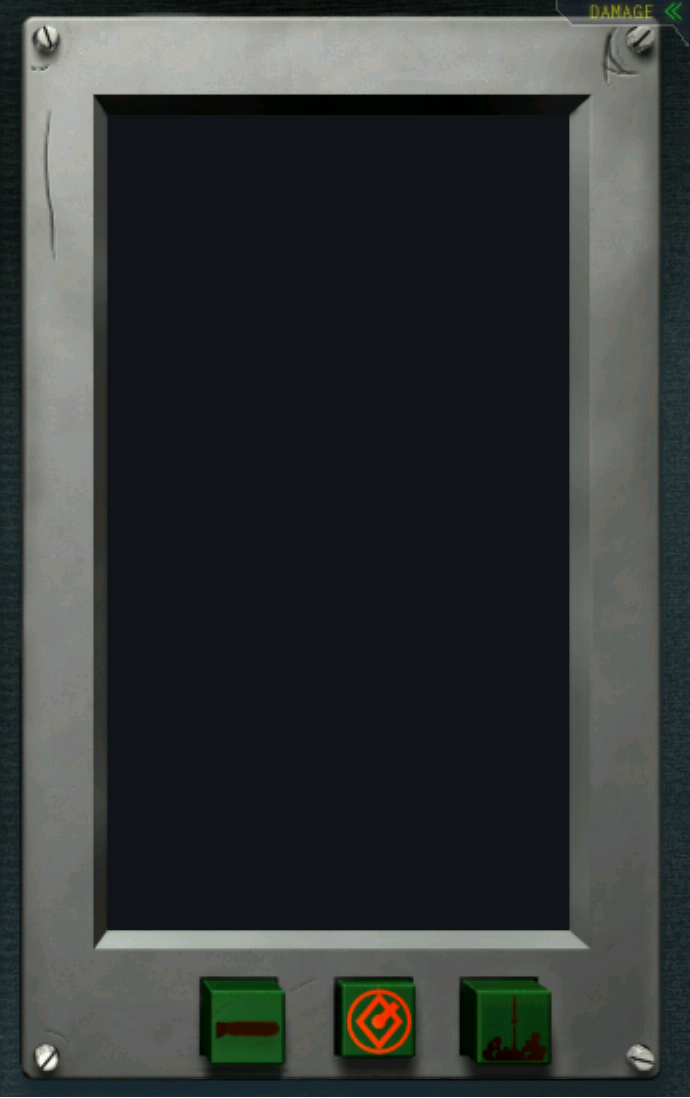
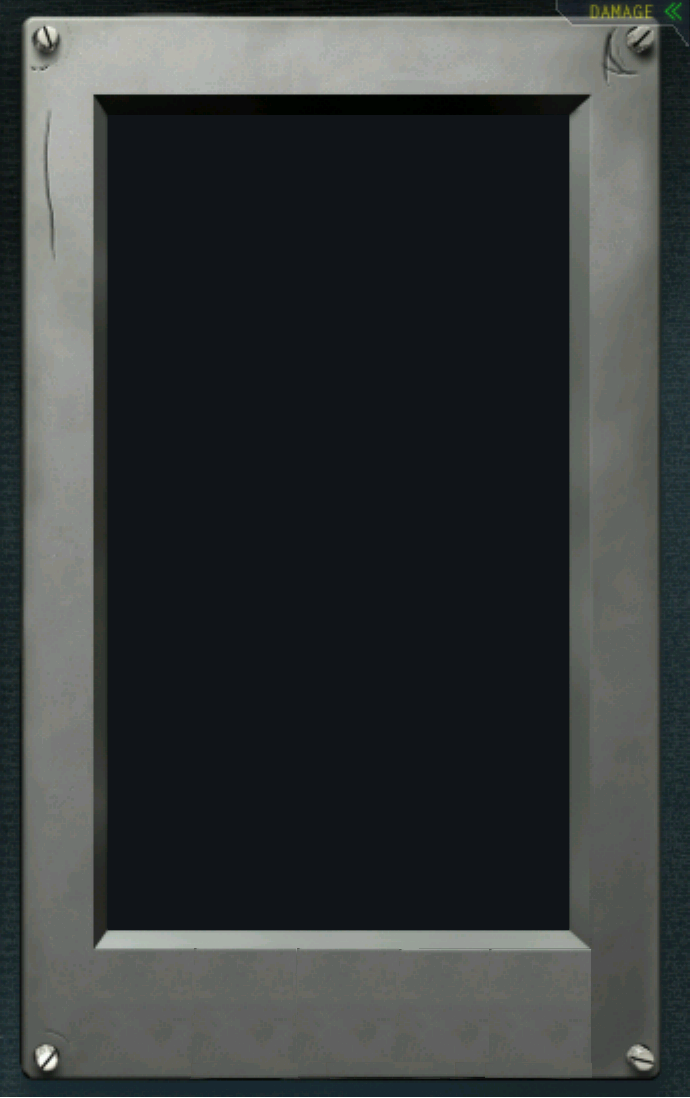
images modified and start/stop button added

Changed region(s): [[0.6391, 0.867, 0.8217, 0.9909], [0.2739, 0.867, 0.4261, 0.9909], [0.4565, 0.867, 0.6087, 0.9909]]

diff --git a/SimulationInterface.py b/SimulationInterface.py
@@ -33,9 +33,17 @@ class InterfaceClass(object):
         self.counterMeasureSystemPicture = pygame.image.load('./img/counterMeasure.png').convert_alpha()
         self.cityButtonPicture = pygame.image.load('./img/city_button.png').convert_alpha()
         self.counterMeasureSystemButtonPicture = pygame.image.load('./img/counterMeasureButton.png').convert_alpha()
+        self.startButtonPicture = pygame.image.load('./img/startButton.png').convert_alpha()
+        self.stopButtonPicture = pygame.image.load('./img/stopButton.png').convert_alpha()
+        self.backgroundPictureButtonRed = pygame.image.load('./img/button_upper.png').convert_alpha()
+        self.backgroundPictureButtonGreen = pygame.image.load('./img/button_upper_start.png').convert_alpha()
         self.cursor_img_rect = 0
         self.city_clicked = False
         self.counterMeasureSystem_clicked = False
+        self.startButton_clicked = False
+        self.stopButton_clicked = False
+        self.stayInMenu = True
+        self.keepRunning = True
 
     def loadPictures(self):
         self.cityPicture = pygame.transform.scale(self.cityPicture, (self.cityPictureSize, self.cityPictureSize))
@@ -43,7 +51,7 @@ class InterfaceClass(object):
                                                                    self.windowsHeight))
         self.counterMeasureSystemPicture = pygame.transform.scale(self.counterMeasureSystemPicture,
                                                                   (self.counterMeasureSystemPictureSize,
-                                                            self.counterMeasureSystemPictureSize))
+                                                                   self.counterMeasureSystemPictureSize))
 
     def convert_degrees(self, R, theta):
         y = math.cos(math.pi * theta / 180) * R
@@ -56,8 +64,9 @@ class InterfaceClass(object):
         self.win.blit(screenText, (positionX, positionY))
 
     def drawSimulationWindow(self, contActiveMissiles, contMissilesDestroyed, contActiveCities, contMissileImpact,
-                   CitiesDestroyed, enemies, strategicLocations, counterMeasuresSystems, counterMeasuresMissiles, angle
-                   , enemiesDestroyedPositions):
+                             CitiesDestroyed, enemies, strategicLocations, counterMeasuresSystems,
+                             counterMeasuresMissiles, angle
+                             , enemiesDestroyedPositions):
         # fondo de la pantalla
         fontText = pygame.font.Font('./fonts/digital-7.ttf', 25)
         fontNumbers = pygame.font.Font('./fonts/digital-7.ttf', 20)
@@ -73,6 +82,14 @@ class InterfaceClass(object):
         self.drawCounterMeasureMissiles(counterMeasuresMissiles)
         self.drawXWhenEnemyMissileIntercepted(enemiesDestroyedPositions)
 
+        stopButton = Button(self.textWidthStart * 1.1, self.windowsHeight * 0.89, self.stopButtonPicture,
+                             self.backgroundPictureButtonGreen, self.win, 0.15)
+
+        if stopButton.draw_button():
+            self.stopButton_clicked = not self.stopButton_clicked
+            if self.stopButton_clicked:
+                self.keepRunning = False
+
         self.text("Active missiles: " + str(contActiveMissiles), self.textWidthStart, self.windowsHeight * 0.2,
                   fontText)
         self.text("Missile Impact: " + str(contMissileImpact), self.textWidthStart, self.windowsHeight * 0.3, fontText)
@@ -82,12 +99,14 @@ class InterfaceClass(object):
         self.text("Cities destroyed: " + str(CitiesDestroyed), self.textWidthStart, self.windowsHeight * 0.7, fontText)
 
         pygame.display.update()
+        return  self.keepRunning
 
     def drawEnemyMissile(self, enemies):
         for enemy in enemies:
             # Las restas a las posiciones es para centrar la foto en el punto
             pygame.draw.circle(self.win, self.redColor, (enemy.position.positionX - int(self.circleSize / 2),
-                                                 enemy.position.positionY - int(self.circleSize / 2)), self.circleSize,
+                                                         enemy.position.positionY - int(self.circleSize / 2)),
+                               self.circleSize,
                                self.circleSize)
 
     def drawStrategicLocations(self, strategicLocations):
@@ -127,17 +146,17 @@ class InterfaceClass(object):
     def drawCounterMeasureMissiles(self, counterMeasuresMissiles):
         for counterMeasuresMissile in counterMeasuresMissiles:
             # Las restas a las posiciones es para centrar la foto en el punto
-            pygame.draw.circle(self.win, self.greenColor, (counterMeasuresMissile.position.positionX - int(self.circleSize / 2),
-                                                 counterMeasuresMissile.position.positionY - int(self.circleSize / 2)), self.circleSize,
+            pygame.draw.circle(self.win, self.greenColor,
+                               (counterMeasuresMissile.position.positionX - int(self.circleSize / 2),
+                                counterMeasuresMissile.position.positionY - int(self.circleSize / 2)), self.circleSize,
                                self.circleSize)
 
     def drawXWhenEnemyMissileIntercepted(self, positions):
         for position in positions:
-            pygame.draw.aaline(self.win,self.redColor,(position.positionX-4, position.positionY-4),
-                               (5+position.positionX-4,5+position.positionY-4))
-            pygame.draw.aaline(self.win,self.redColor,(5+position.positionX-4,position.positionY-4),
-                               (position.positionX-4,5+position.positionY-4))
-
+            pygame.draw.aaline(self.win, self.redColor, (position.positionX - 4, position.positionY - 4),
+                               (5 + position.positionX - 4, 5 + position.positionY - 4))
+            pygame.draw.aaline(self.win, self.redColor, (5 + position.positionX - 4, position.positionY - 4),
+                               (position.positionX - 4, 5 + position.positionY - 4))
 
     def drawConfigWindow(self, strategicLocations, counterMeasuresSystems, angle):
         fontNumbers = pygame.font.Font('./fonts/digital-7.ttf', 20)
@@ -151,9 +170,18 @@ class InterfaceClass(object):
         self.drawCounterMeasureSystem(counterMeasuresSystems)
 
         cityButton = Button(self.textWidthStart * 1.05, self.windowsHeight * 0.2, self.cityButtonPicture,
-                            self.win,0.25)
-        counterMeasureSystemButton = Button(self.textWidthStart * 1.05, self.windowsHeight * 0.5, self.counterMeasureSystemButtonPicture,
-                            self.win, 0.25)
+                            self.backgroundPictureButtonRed, self.win, 0.25)
+        counterMeasureSystemButton = Button(self.textWidthStart * 1.05, self.windowsHeight * 0.5,
+                                            self.counterMeasureSystemButtonPicture,
+                                            self.backgroundPictureButtonRed, self.win, 0.25)
+
+        startButton = Button(self.textWidthStart * 1.1, self.windowsHeight * 0.89, self.startButtonPicture,
+                             self.backgroundPictureButtonGreen, self.win, 0.15)
+
+        if startButton.draw_button():
+            self.startButton_clicked = not self.startButton_clicked
+            if self.startButton_clicked:
+                self.stayInMenu = False
 
         if cityButton.draw_button():
             self.city_clicked = not self.city_clicked
@@ -175,7 +203,7 @@ class InterfaceClass(object):
             self.cursor_img_rect.center = pygame.mouse.get_pos()
             self.win.blit(self.cityPicture, self.cursor_img_rect)
             if pygame.mouse.get_pressed()[0] and pygame.mouse.get_pos()[0] < self.mapWidthLimit:
-                cityPos = positionClass(pygame.mouse.get_pos()[0], pygame.mouse.get_pos()[1],0)
+                cityPos = positionClass(pygame.mouse.get_pos()[0], pygame.mouse.get_pos()[1], 0)
                 strategicLocation = strategicLocationsClass(len(strategicLocations), cityPos)
                 strategicLocations.append(strategicLocation)
                 time.sleep(0.1)
@@ -183,8 +211,11 @@ class InterfaceClass(object):
             self.cursor_img_rect.center = pygame.mouse.get_pos()
             self.win.blit(self.counterMeasureSystemPicture, self.cursor_img_rect)
             if pygame.mouse.get_pressed()[0] and pygame.mouse.get_pos()[0] < self.mapWidthLimit:
-                counterPos = positionClass(pygame.mouse.get_pos()[0], pygame.mouse.get_pos()[1],0)
+                counterPos = positionClass(pygame.mouse.get_pos()[0], pygame.mouse.get_pos()[1], 0)
                 counterMeasuresSystem = CounterMeasureSystemClass(counterPos, len(counterMeasuresSystems))
                 counterMeasuresSystems.append(counterMeasuresSystem)
                 time.sleep(0.1)
+
         pygame.display.update()
+
+        return self.stayInMenu

diff --git a/Button.py b/Button.py
@@ -3,7 +3,7 @@ import time
 import pygame
 
 class Button():
-    def __init__(self, x, y, image, window, scale_image):
+    def __init__(self, x, y, image, backimage, window, scale_image):
         width = image.get_width()
         height = image.get_height()
         self.image = pygame.transform.scale(image, (int(width * scale_image), int(height * scale_image)))
@@ -11,10 +11,15 @@ class Button():
         self.rect.topleft = (x, y)
         self.win = window
         self.button_clicked = False
+        self.elevation = 6
+        self.original_x = x
+        self.original_y = y
+        self.imageUpper = pygame.transform.scale(backimage, (int(width * scale_image), int(height * scale_image)))
+        self.upperButton = self.image.get_rect()
+        self.upperButton.topleft = (x - self.elevation, y - self.elevation)
 
     def draw_button(self):
         action = False
-
         mouse_position = pygame.mouse.get_pos()
 
         if self.rect.collidepoint(mouse_position):
@@ -25,6 +30,7 @@ class Button():
         if pygame.mouse.get_pressed()[0] == 0: #reset the button
             self.button_clicked = False
 
+        self.win.blit(self.imageUpper, (self.upperButton.x, self.upperButton.y))
         self.win.blit(self.image, (self.rect.x, self.rect.y))
 
         return action

diff --git a/main_multiprocessing.py b/main_multiprocessing.py
@@ -107,7 +107,7 @@ if __name__ == "__main__":
                 menu = False
 
         angle += DEGRESSPERFRAME
-        interface.drawConfigWindow(strategicLocations, counterMeasuresSystems, angle)
+        menu = interface.drawConfigWindow(strategicLocations, counterMeasuresSystems, angle)
         clock.tick(FPS)
 
     calculateSystem = CalculateSystemClass(calculateSystemPosition)
@@ -130,8 +130,6 @@ if __name__ == "__main__":
                         FPS -= 10
                 if pressed[pygame.K_SPACE]:
                     pause = not pause
-                if pressed[pygame.K_ESCAPE]:
-                    menu = not menu
 
             while pause:
                 for e in pygame.event.get():
@@ -205,7 +203,7 @@ if __name__ == "__main__":
         contActiveCities = len(strategicLocations)
         angle += DEGRESSPERFRAME
 
-        interface.drawSimulationWindow(contActiveMissiles, contMissilesDestroyed, contActiveCities, contMissileImpact,
+        run = interface.drawSimulationWindow(contActiveMissiles, contMissilesDestroyed, contActiveCities, contMissileImpact,
                              CitiesDestroyed, enemies, strategicLocations, counterMeasuresSystems,
                              counterMeasuresMissiles, angle, enemiesDestroyedPositions)
 
